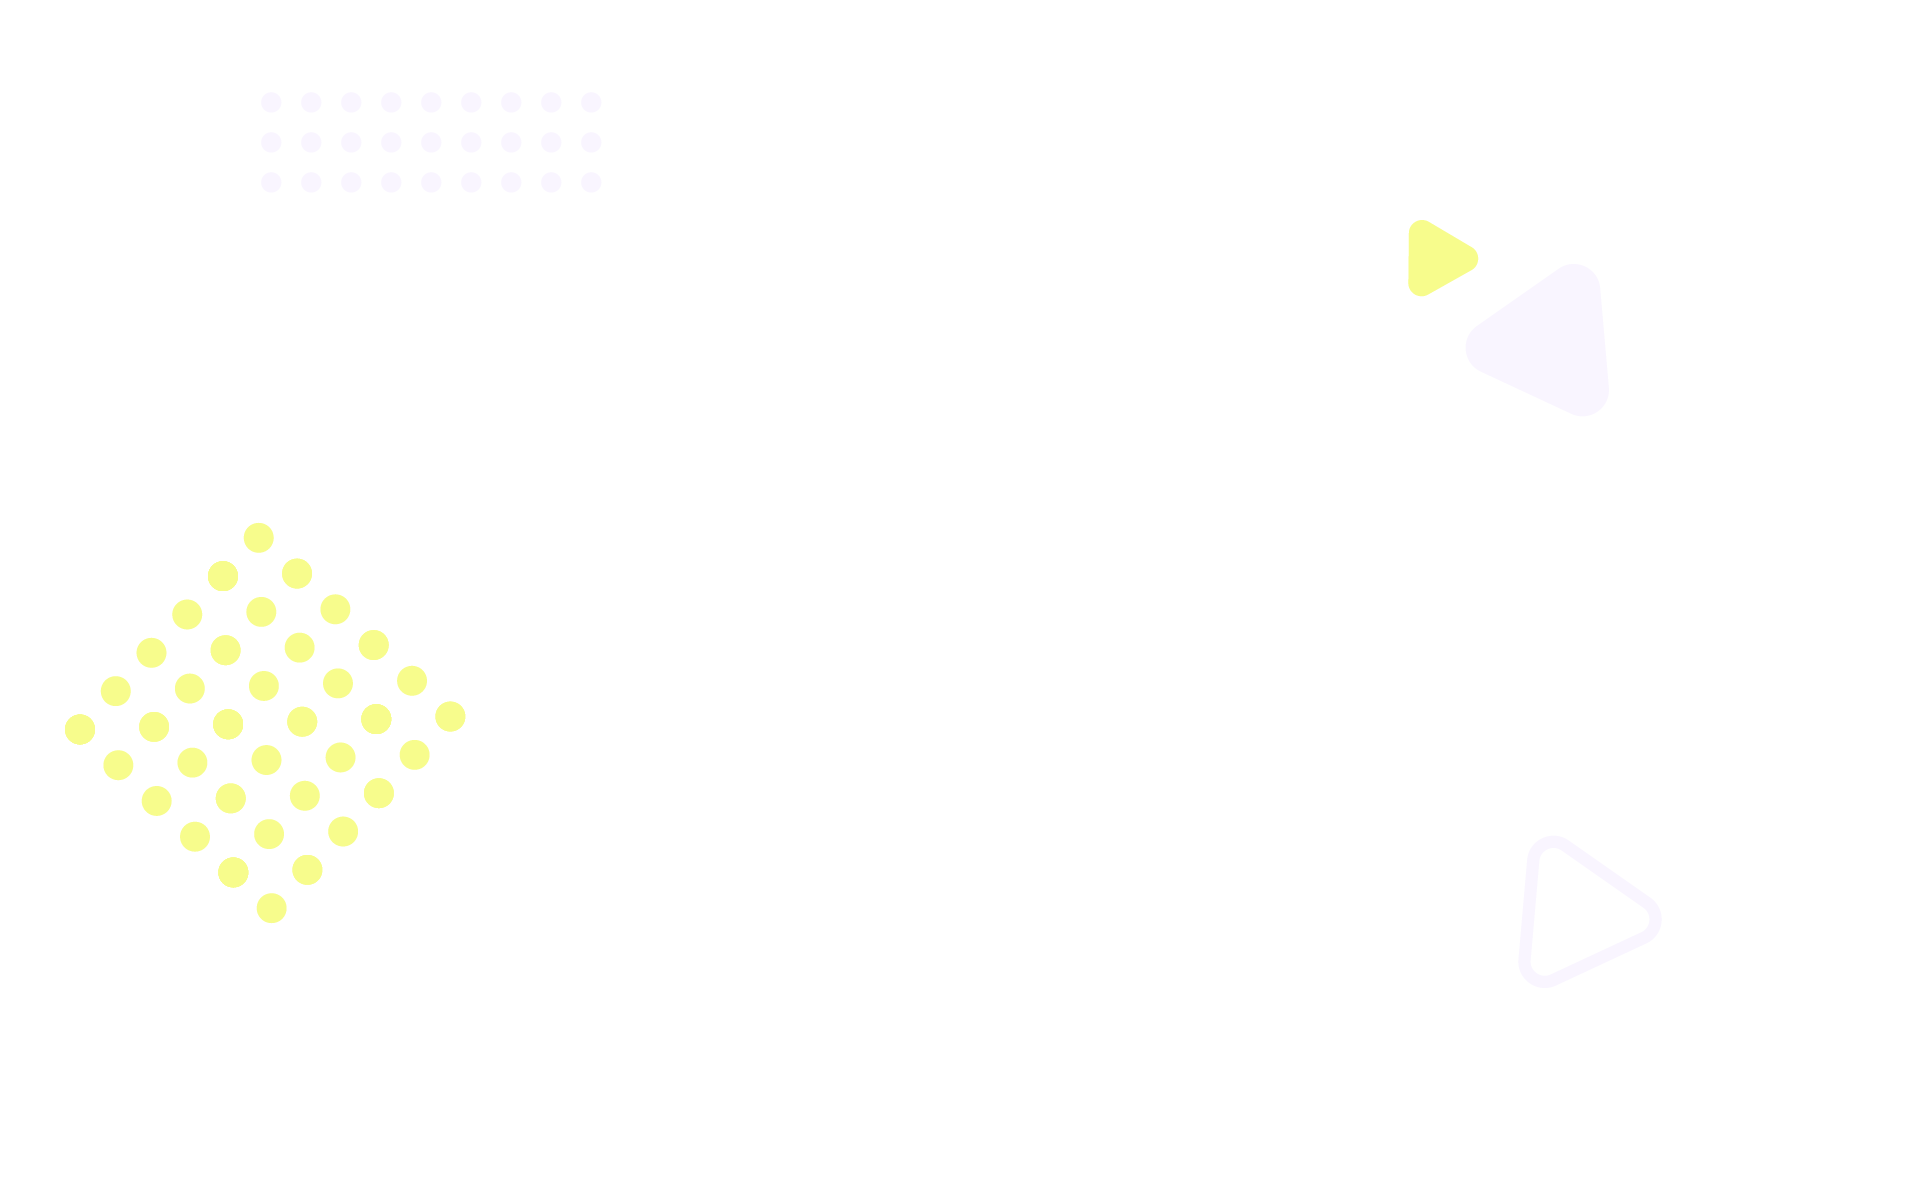
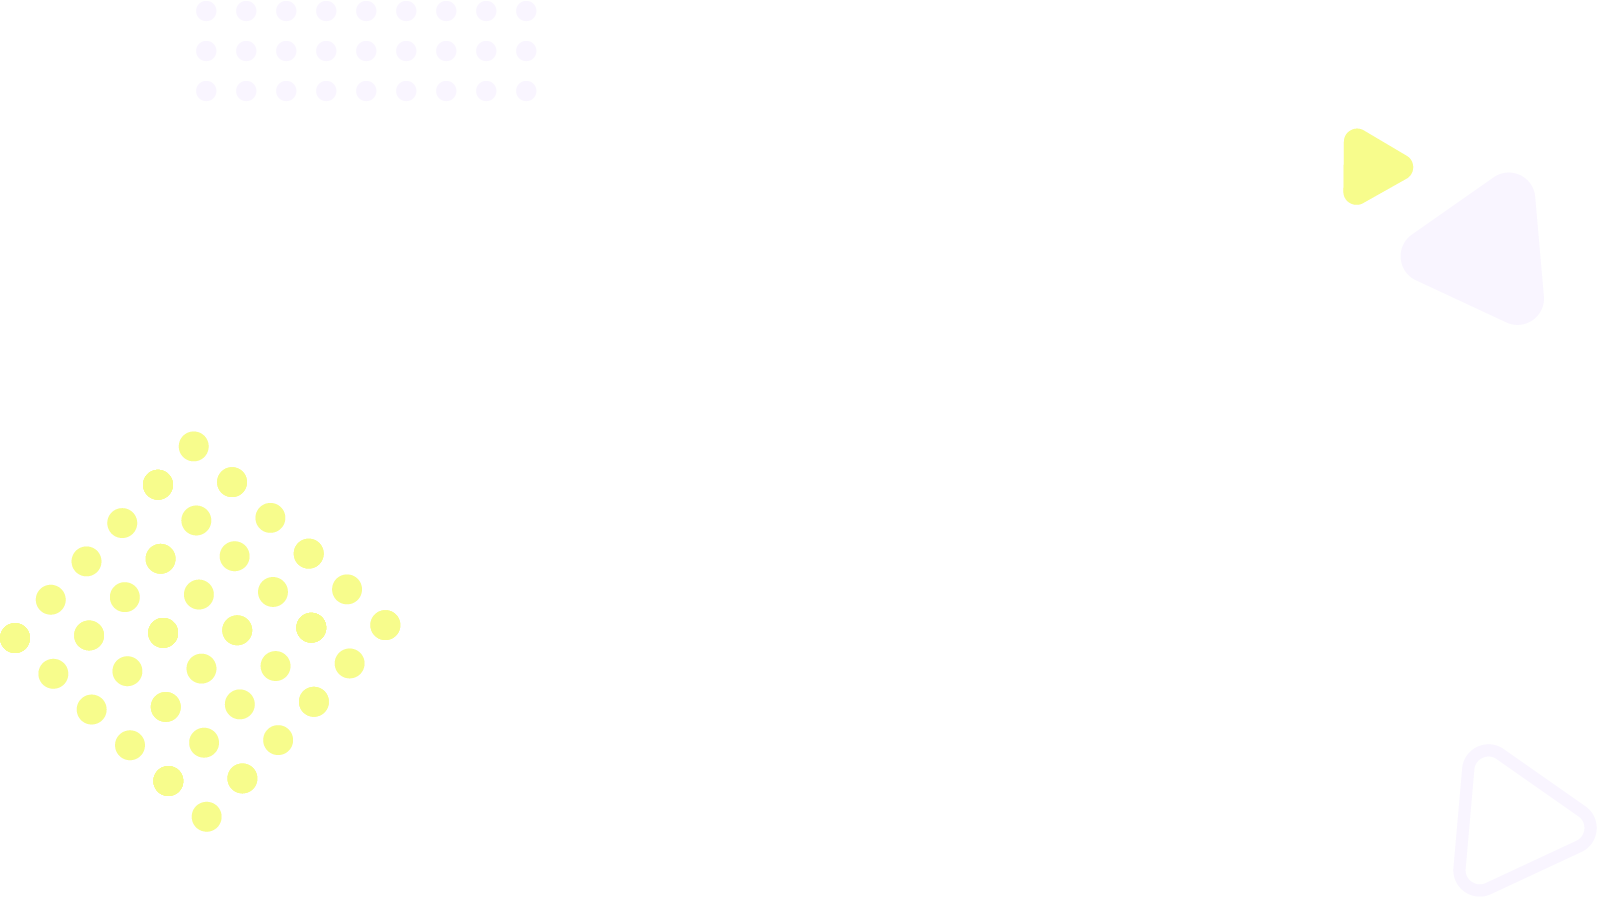
revisions in background

Changed region(s): [[0.0, 0.4365, 0.2761, 0.9354], [0.8284, 0.1247, 0.8898, 0.2494], [0.7364, 0.1871, 0.7671, 0.2494]]

diff --git a/src/css/components/_video.scss b/src/css/components/_video.scss
@@ -10,7 +10,24 @@
 }
 
 .video__container {
-  background-image: url("../img/index-page/video/video-section-background.png");
+  width: 100%;
+  height: 80%;
+  @include mixin.center;
+  flex-direction: column;
+  position: relative;
+
+  &::before { //sets the background image
+    content: "";
+    position: absolute;
+    z-index: -1;
+    width: 100%;
+    max-width: 1597px;
+    height: 100%;
+    background-image: url("../img/index-page/video/video-section-background.png");
+    background-size: contain;
+    background-repeat: no-repeat;
+    background-position: 30% 50%;
+  }
 }
 
 .video__items {
@@ -18,7 +35,7 @@
   align-items: flex-start;
   gap: 30px;
   width: 100%;
-  padding-top: 50px;
+  padding-top: 55px;
 }
 
 .video__box {
@@ -38,9 +55,6 @@
     margin-top: 70px;
   }
 }
-
-
-
 
 .video__views-text {
   @include mixin.center;

diff --git a/src/css/common/_skew.scss b/src/css/common/_skew.scss
@@ -7,6 +7,7 @@
   top: -80px;
   transform: skewY(6deg);
   overflow: hidden;
+  @include mixin.center;
   @media screen and (min-width: 1700px) {
     top: -145px;
   }
@@ -24,11 +25,4 @@
 
 .skew__container {
   transform: skewY(-6deg); //remove skew inside the container
-  width: 100%;
-  height: 100%;
-  background-repeat: no-repeat;
-  background-size: cover;
-  background-position: top;
-  @include mixin.center;
-  flex-direction: column;
 }
